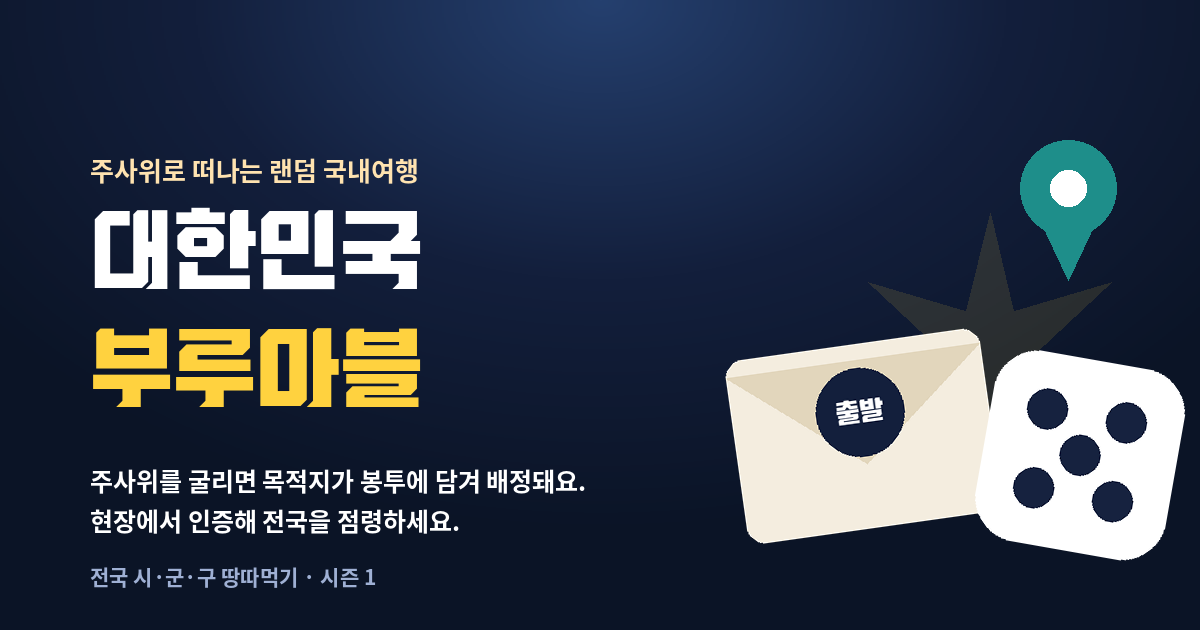
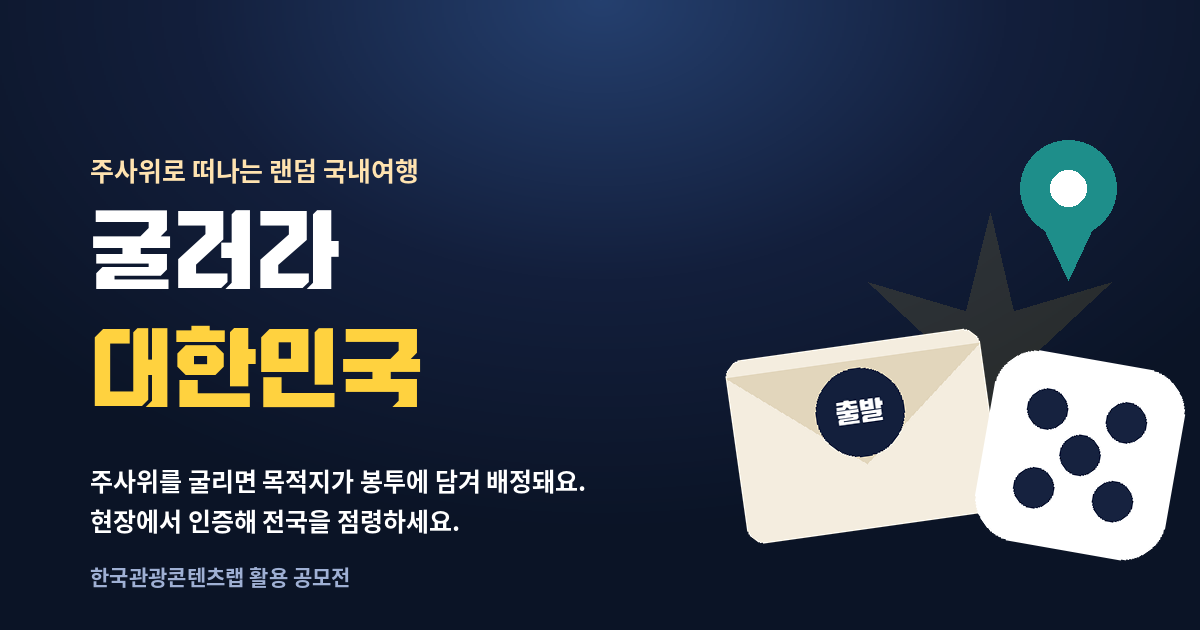
Add files via upload

Changed region(s): [[0.0617, 0.5127, 0.3392, 0.6635], [0.0617, 0.3317, 0.37, 0.4825], [0.0617, 0.9048, 0.3083, 0.9349]]

diff --git a/index.html b/index.html
@@ -4,20 +4,20 @@
     <meta charset="UTF-8" />
     <meta name="viewport" content="width=device-width, initial-scale=1, viewport-fit=cover" />
     <meta name="theme-color" content="#131F3C" />
-    <title>대한민국 부루마블</title>
+    <title>굴러라 대한민국</title>
     <meta name="description" content="여권 + 보드게임. 주사위를 굴려 목적지를 뽑고, 실제로 다녀와 인증하면 그 지역이 내 땅이 되는 국내여행 게임." />
 
     <!-- 카카오톡·페이스북 등 링크 미리보기 -->
     <meta property="og:type" content="website" />
-    <meta property="og:site_name" content="대한민국 부루마블" />
-    <meta property="og:title" content="대한민국 부루마블" />
+    <meta property="og:site_name" content="굴러라 대한민국" />
+    <meta property="og:title" content="굴러라 대한민국" />
     <meta property="og:description" content="주사위를 굴리면 목적지가 봉투에 담겨 배정돼요. 현장에서 인증해 전국을 점령하세요." />
     <meta property="og:url" content="https://gulura-korea.netlify.app/" />
     <meta property="og:image" content="https://gulura-korea.netlify.app/og.png" />
     <meta property="og:image:width" content="1200" />
     <meta property="og:image:height" content="630" />
     <meta name="twitter:card" content="summary_large_image" />
-    <meta name="twitter:title" content="대한민국 부루마블" />
+    <meta name="twitter:title" content="굴러라 대한민국" />
     <meta name="twitter:description" content="주사위를 굴리면 목적지가 봉투에 담겨 배정돼요. 현장에서 인증해 전국을 점령하세요." />
     <meta name="twitter:image" content="https://gulura-korea.netlify.app/og.png" />
     <style>html,body,#root{height:100%;margin:0;background:#23304d}</style>

diff --git a/src/overlays/ShareModal.jsx b/src/overlays/ShareModal.jsx
@@ -9,7 +9,7 @@ export function ShareModal({ room, onClose, flash }){
   const code = room?.code || "";
   const link = inviteLink(code);
   function share(){
-    if(typeof navigator!=="undefined" && navigator.share){ navigator.share({title:"대한민국 부루마블", text:`방 코드 ${code} 로 함께 전국을 점령해요!`, url:link}).catch(()=>{}); }
+    if(typeof navigator!=="undefined" && navigator.share){ navigator.share({title:"굴러라 대한민국", text:`방 코드 ${code} 로 함께 전국을 점령해요!`, url:link}).catch(()=>{}); }
     else { try{ navigator.clipboard.writeText(link); }catch(e){} flash("초대 링크가 복사되었어요"); }
   }
   function copy(){ try{ navigator.clipboard.writeText(link); }catch(e){} flash("초대 링크 복사 완료 · 친구가 링크를 열면 코드가 자동으로 입력돼요"); }
@@ -20,7 +20,7 @@ export function ShareModal({ room, onClose, flash }){
       Kakao.Share.sendDefault({
         objectType:"feed",
         content:{
-          title:"대한민국 부루마블",
+          title:"굴러라 대한민국",
           description:`${code} 방에 초대되었어요. 링크를 열면 초대 코드가 자동으로 입력돼요.`,
           imageUrl: shareImage(),
           imageWidth: 1200, imageHeight: 630,

diff --git a/src/ui/primitives.jsx b/src/ui/primitives.jsx
@@ -99,8 +99,8 @@ export function Splash({onStart}){
     <div className="app-splash" style={S.splash}>
       <div style={{flex:1,display:"flex",flexDirection:"column",alignItems:"center",justifyContent:"center",padding:"28px 26px",textAlign:"center"}}>
         <span style={S.splashEyebrow}>주사위로 떠나는 랜덤 국내여행</span>
-        <h1 style={S.splashTitle}>대한민국</h1>
-        <h1 style={S.splashTitle2}>부루마블</h1>
+        <h1 style={S.splashTitle}>굴러라</h1>
+        <h1 style={S.splashTitle2}>대한민국</h1>
         <div style={{margin:"20px 0 16px"}}><SplashArt/></div>
         <p style={S.splashSub}>주사위를 굴리면 목적지가 봉투에 담겨 배정돼요. 현장에서 인증해 전국을 점령하고, 소멸 위기 지역은 2배 점수 황금 타일로 차지하세요.</p>
       </div>

diff --git a/src/components/Splash.jsx b/src/components/Splash.jsx
@@ -7,7 +7,7 @@ export function Splash({onStart}){
       <div style={{flex:1,display:"flex",flexDirection:"column",alignItems:"center",justifyContent:"center",padding:"28px 26px",textAlign:"center"}}>
         <span style={S.splashEyebrow}>주사위로 떠나는 랜덤 국내여행</span>
         <h1 style={S.splashTitle}>대한민국</h1>
-        <h1 style={S.splashTitle2}>부루마블</h1>
+        <h1 style={S.splashTitle2}>대한민국</h1>
         <div style={{margin:"20px 0 16px"}}><SplashArt/></div>
         <p style={S.splashSub}>주사위를 굴리면 목적지가 봉투에 담겨 배정돼요. 현장에서 인증해 전국을 점령하고, 소멸 위기 지역은 2배 점수 황금 타일로 차지하세요.</p>
       </div>

diff --git a/src/App.jsx b/src/App.jsx
@@ -507,7 +507,7 @@ export default function App(){
       <div className="app-shell" style={S.phone}>
         {!started ? <Splash onStart={()=>setStarted(true)}/> : (<>
         <header className="app-bar" style={S.appbar}>
-          <div style={{display:"flex",alignItems:"center",gap:8}}><DiceLogo/><span style={S.wordmark}>대한민국 부루마블</span></div>
+          <div style={{display:"flex",alignItems:"center",gap:8}}><DiceLogo/><span style={S.wordmark}>굴러라 대한민국</span></div>
           <div style={{display:"flex",alignItems:"center",gap:8}}>
             <div style={S.coinPill}>🪙 {coins}</div>
             <button onClick={()=>setShopOpen(true)} aria-label="카드 상점" style={S.shopBtn}>

diff --git a/src/data/sampleDestinations.js b/src/data/sampleDestinations.js
@@ -2,7 +2,7 @@
  * TourAPI 응답 형태의 내장 샘플 목적지 — API 실패 시 폴백
  */
 /*
-  대한민국 부루마블 — 지도 탭: [지도(시군구 실제 경계)] / [타일(시도 보드)]
+  굴러라 대한민국 — 지도 탭: [지도(시군구 실제 경계)] / [타일(시도 보드)]
   인증 완료 시 해당 시·군·구가 내 색으로 칠해집니다.
 */
 /* ───────── 샘플 데이터 (TourAPI item 형태 + 시군구 코드 sgg) ───────── */

diff --git a/src/overlays/SettingsSheet.jsx b/src/overlays/SettingsSheet.jsx
@@ -167,7 +167,7 @@ export function SettingsSheet({
     },
     credit: {
       title: "만든 사람",
-      body: `대한민국 부루마블 — 굴러라 코리아
+      body: `굴러라 대한민국
 2026 한국관광콘텐츠랩 활용 공모전 출품작
 
 데이터 출처
